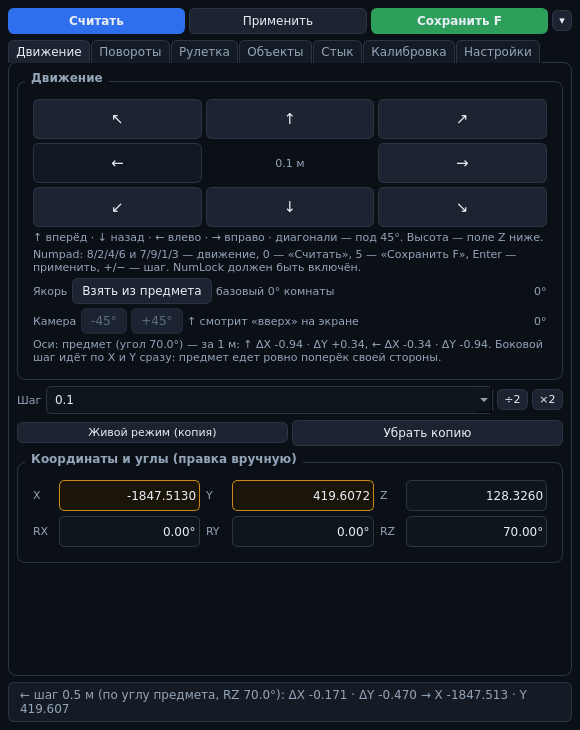
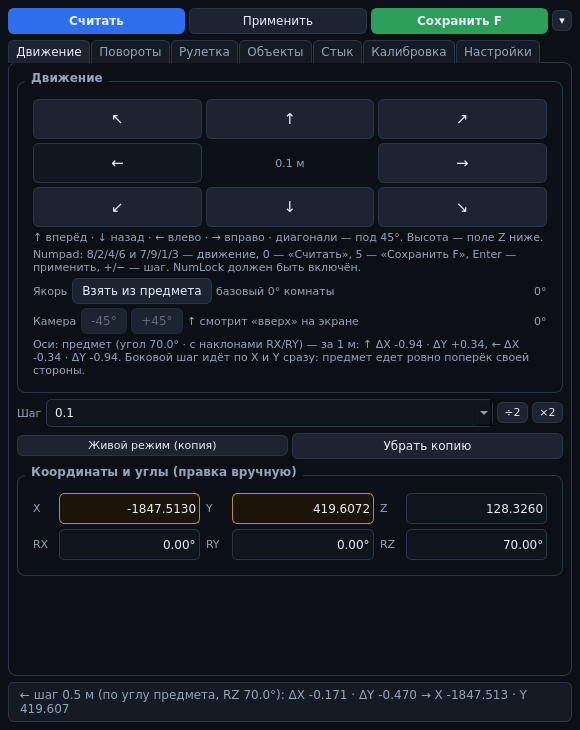
fix(move): сверка с первой версией 2.0 и памятка по ошибкам
Эталон — коммит d2db3d0 (LSP Mapper Overlay 2.0), а не старая mapper_assist.
Там шаг считался по осям предмета матрицей Rz·Ry·Rx с учётом наклонов RX/RY.
В 2.12.0 наклоны были отключены — на наклонённой детали шаг уходил не туда;
теперь use_tilt снова True, умолчание — режим «Предмет».

- tests/first_release_steps.json: 720 шагов, снятых прогоном move() из d2db3d0
- tests/test_first_release_parity.py: сверка текущего расчёта до 1e-12
- docs/LESSONS.md: памятка (эталон, правила умолчаний, ошибки среды, чек-лист
  выпуска), ссылки из CONTRIBUTING и README
- docs/adr/0009: дополнение 2.13.0 с уточнением эталона
- 1123 теста, покрытие 88 %

Changed region(s): [[0.031, 0.4521, 0.9931, 0.7534], [0.0621, 0.7233, 0.0931, 0.7534]]

diff --git a/tests/test_first_release_parity.py b/tests/test_first_release_parity.py
@@ -1,0 +1,59 @@
+"""Сверка с первой версией 2.0 (коммит ``d2db3d0``): шаг должен совпадать до знака.
+
+Эталон снят прогоном ``lsp_overlay.domain.movement.move`` из той версии и лежит в
+``tests/first_release_steps.json``. Тест держит умолчания приложения на месте: любое
+изменение осей, наклонов или формулы сдвига сразу его ломает.
+"""
+
+from __future__ import annotations
+
+import json
+from pathlib import Path
+
+import pytest
+from lsp_overlay.config import Settings
+from lsp_overlay.domain.directions import DiagonalMode, Direction
+from lsp_overlay.domain.movement import move
+from lsp_overlay.domain.pose import Pose
+
+GOLDEN = Path(__file__).with_name("first_release_steps.json")
+START = Pose(x=10.0, y=-20.0, z=5.0)
+
+
+def load_rows() -> list[dict[str, float | str]]:
+    """Эталонные шаги первой версии."""
+    return json.loads(GOLDEN.read_text(encoding="utf-8"))
+
+
+def test_golden_table_is_complete() -> None:
+    rows = load_rows()
+    assert len(rows) == len(Direction) * 12 * 3 * 2
+
+
+@pytest.mark.parametrize(
+    "row",
+    load_rows(),
+    ids=lambda row: f"{row['direction']}-{row['rz']}-{row['step']}-{row['mode']}",
+)
+def test_step_matches_the_first_release(row: dict[str, float | str]) -> None:
+    """Шаг по умолчанию повторяет первую версию до последнего знака."""
+    settings = Settings()
+    pose = Pose(
+        x=START.x,
+        y=START.y,
+        z=START.z,
+        rx=float(row["rx"]),
+        ry=float(row["ry"]),
+        rz=float(row["rz"]),
+    )
+    result = move(
+        pose,
+        Direction(str(row["direction"])),
+        float(row["step"]),
+        diagonal_mode=DiagonalMode(str(row["mode"])),
+        use_tilt=settings.use_tilt,
+        frame=settings.move_frame,
+    )
+    assert (result.x - pose.x, result.y - pose.y, result.z - pose.z) == pytest.approx(
+        (row["dx"], row["dy"], row["dz"]), abs=1e-12
+    )

diff --git a/tests/test_ui.py b/tests/test_ui.py
@@ -279,7 +279,7 @@ def test_frame_hint_shows_the_numbers_for_a_sideways_step(tmp_path: Path, qt_app
     """Подсказка показывает, что шаг вбок задевает обе оси."""
     window, _panel = make_window(tmp_path, qt_app, pose=Pose(x=0.0, y=0.0, z=0.0, rz=70.0))
     text = window.movement_tab.frame_text()
-    assert "Оси: предмет (угол 70.0°)" in text
+    assert "Оси: предмет (угол 70.0° · с наклонами RX/RY)" in text
     assert "← ΔX -0.34 · ΔY -0.94" in text
     assert "по X и Y сразу" in text
 
@@ -319,9 +319,9 @@ def test_direction_fix_checkboxes_mirror_the_step(tmp_path: Path, qt_app: object
     assert panel.pose.y == pytest.approx(-1.0)
 
 
-def test_tilt_checkbox_is_off_like_the_first_version(tmp_path: Path, qt_app: object) -> None:
+def test_tilt_checkbox_is_on_like_the_first_release(tmp_path: Path, qt_app: object) -> None:
     window, _panel = make_window(tmp_path, qt_app)
-    assert window.settings_tab.chk_tilt.isChecked() is False
+    assert window.settings_tab.chk_tilt.isChecked() is True
 
 
 def test_camera_buttons_work_only_in_world_frame(tmp_path: Path, qt_app: object) -> None:

diff --git a/tests/test_movement.py b/tests/test_movement.py
@@ -48,9 +48,9 @@ def test_diagonal_same_step_mode_moves_step_on_each_axis() -> None:
     assert result.position == pytest.approx((2.0, 2.0, 0.0))
 
 
-def test_diagonal_does_not_touch_z_even_for_tilted_prop() -> None:
-    """По умолчанию, как в первой версии, наклоны RX/RY не участвуют: шаг остаётся на полу."""
-    result = move(Pose(rx=30.0, ry=20.0, rz=45.0), Direction.NORTH_EAST, 1.0)
+def test_diagonal_does_not_touch_z_for_flat_prop() -> None:
+    """Плоский проп: диагональ в плане, высота на месте даже при наклонах."""
+    result = move(Pose(rx=30.0, ry=20.0, rz=45.0), Direction.NORTH_EAST, 1.0, use_tilt=False)
     assert result.z == pytest.approx(0.0)
     tilted = move(Pose(rx=30.0, ry=20.0, rz=45.0), Direction.NORTH_EAST, 1.0, use_tilt=True)
     assert tilted.z != 0.0  # по плоскости наклонённой детали высота уже меняется

diff --git a/tests/test_config.py b/tests/test_config.py
@@ -55,8 +55,9 @@ def test_old_schema_world_value_is_migrated() -> None:
     assert Settings.from_dict(old).move_frame is MoveSpace.OBJECT
 
 
-def test_tilt_is_off_by_default_like_the_first_version() -> None:
-    assert Settings().use_tilt is False
+def test_tilt_is_on_by_default_like_the_first_release() -> None:
+    """В первой версии 2.0 (коммит d2db3d0) наклоны RX/RY учитывались."""
+    assert Settings().use_tilt is True
 
 
 def test_anchor_and_inverts_round_trip() -> None:

diff --git a/lsp_overlay/config.py b/lsp_overlay/config.py
@@ -115,7 +115,7 @@ class Settings:
     step: float = DEFAULT_STEP
     step_presets: tuple[float, ...] = DEFAULT_STEP_PRESETS
     diagonal_mode: DiagonalMode = DiagonalMode.SAME_DISTANCE
-    use_tilt: bool = False
+    use_tilt: bool = True
     move_frame: MoveSpace = DEFAULT_MOVE_SPACE
     move_rotation: float = 0.0
     anchor_rz: float = 0.0

diff --git a/lsp_overlay/__init__.py b/lsp_overlay/__init__.py
@@ -2,5 +2,5 @@
 
 from __future__ import annotations
 
-__version__ = "2.12.0"
+__version__ = "2.13.0"
 __all__ = ["__version__"]

diff --git a/docs/LESSONS.md b/docs/LESSONS.md
@@ -1,0 +1,57 @@
+# Памятка: ошибки и их решения
+
+Живой документ. **Читать перед любой правкой движения, осей и записи координат** и
+дописывать сюда каждый повторяющийся промах — чтобы не проходить один и тот же круг заново.
+
+## Эталон: «первая версия» — это первый релиз 2.0
+
+| Что | Как понимать |
+| --- | --- |
+| **Первая версия** | Коммит `d2db3d0` — «feat!: LSP Mapper Overlay 2.0 — приложение переписано с нуля». Всё, что было до него (старая `mapper_assist`, коммиты `4c524c3` и раньше), **не считается**: хранилище обнуляли. |
+| Как проверить | `git show d2db3d0:lsp_overlay/domain/movement.py` |
+| Что там было | Один режим — по осям предмета: `R = Rz·Ry·Rx`, наклоны `RX`/`RY` **учитываются** (`use_tilt = True`), `Z` меняется только диагональю по плоскости детали. |
+| Чем это закреплено | `tests/first_release_steps.json` (720 эталонных шагов, сняты прогоном `move()` из `d2db3d0`) + `tests/test_first_release_parity.py`. Любое расхождение — регресс. |
+
+Если поведение движения расходится с этим эталоном — прав не пользователь, а этот файл.
+Если кажется, что виновата математика, сначала прогоните
+`pytest tests/test_first_release_parity.py` — она сверяет 720 комбинаций.
+
+## Правила, которые уже спасли бы время
+
+1. **Не менять умолчания без теста на умолчания.** Оси движения переделывались четыре раза
+   (2.9.0 «мир», 2.10.0 поправка камеры, 2.11.0 «предмет», 2.12.0 «только RZ»), потому что
+   менялось умолчание, а теста «умолчание = первая версия» не было. Теперь есть:
+   `Settings().move_frame is MoveSpace.OBJECT` и `Settings().use_tilt is True`.
+2. **Сначала сверка, потом гипотеза.** Если пользователь говорит «сдвиг не туда», порядок
+   действий: (а) прогнать эталон, (б) посмотреть, что реально уходит в панель
+   (`_move_report`, `pending_fields`), (в) только потом трогать формулу. Фраза «ошибка в
+   расчёте шага» уже трижды была тупиком: расчёт совпадал, расходились оси/камера/наклоны.
+3. **Одна координата ≠ одна кнопка.** В осях предмета при `RZ = 70°` «влево» обязано менять
+   `X` и `Y` одновременно (`ΔX −0.342 · ΔY −0.940` на метр) — это норма, а не диагональ.
+   Диагональ — это когда направление не совпадает с осью детали.
+4. **Наклоны `RX`/`RY` — часть первой версии.** Выключать их «для простоты» нельзя: на
+   наклонённой детали шаг поедет иначе, чем в первой версии. Выключаются только галочкой.
+5. **Режимы — добавка, не умолчание.** «Мир», «Якорь», поправка на камеру и поправки
+   направлений живут рядом, но по умолчанию работает режим первой версии.
+
+## Ошибки среды и тестов
+
+| Симптом | Причина и лечение |
+| --- | --- |
+| `ImportError: libGL.so.1` | Нет Qt-библиотек: `bash /tmp/make_stubs.sh .venv` и запуск с `LD_PRELOAD=/tmp/glstub/libglstub.so LD_LIBRARY_PATH=/tmp/glstub`, для окна — `QT_QPA_PLATFORM=offscreen`. |
+| `malloc_consolidate(): unaligned fastbin chunk` | Шум стабов Qt, а не ошибка приложения. Тесты при этом проходят. |
+| `Pose(...)` с частью полей | Молча даёт нули: все `x/y/z/rx/ry/rz` задавать явно. |
+| `QComboBox.currentIndexChanged` срабатывает раньше словарей | Подключать сигнал только после наполнения списка и подписей. |
+| `place_join(refresh=True)` подменял базу стыка | Перечитывание панели перед стыком выключено (`refresh=False`). |
+| Тест статуса читает готовый текст после `action_apply` | Читать `lbl_status` **до** применения, иначе текст уже заменён. |
+| Четыре старых теста ждали оси предмета | Они помечены явным `frame=MoveSpace.OBJECT`; не возвращать им другие оси. |
+| `ruff` ругается на длинные строки/порядок импортов | `ruff format` + `ruff check --fix`. |
+
+## Выпуск версии: чек-лист
+
+1. `ruff format --check .`, `ruff check .`, `mypy lsp_overlay`, `pytest --cov` (≥ 80 %).
+2. `pytest tests/test_first_release_parity.py` — эталон первой версии.
+3. Собрать zip, распаковать в чистую папку, прогнать тесты и `main.py --debug`,
+   проверить `logs/session_ready.txt` = `<версия> <python>`.
+4. Обновить `CHANGELOG.md`, `README.md`, ADR и этот файл; версию — в `pyproject.toml` и
+   `lsp_overlay/__init__.py`.

diff --git a/README.md b/README.md
@@ -10,13 +10,15 @@
 
 - **Считывает шесть полей панели** — `X`, `Y`, `Z` и `RX`, `RY`, `RZ` — через
   `Ctrl+A` → `Ctrl+C` и разбирает числа из буфера обмена.
-- **Двигает проп в 8 направлениях ровно так же, как первая версия.** Шаг поворачивается на
-  угол предмета `RZ` и идёт строго параллельно полу (`Z` не трогается), поэтому при
+- **Двигает проп в 8 направлениях ровно так же, как первая версия 2.0** (коммит
+  `d2db3d0`): шаг считается по осям предмета полной матрицей `R = Rz·Ry·Rx`, поэтому при
   `RZ = 70°` нажатие «влево» меняет **и `X`, и `Y`** (`ΔX −0.342 · ΔY −0.940` на метр) —
   предмет едет ровно поперёк своей стороны. `↑` — вдоль длины, `↓` — назад, плюс четыре
   диагонали под 45°. Кнопок высоты нет — `Z` задаётся вручную в поле координат.
-- **Наклоны `RX`/`RY` по умолчанию не участвуют** — как в v1. Галочка «Учитывать наклоны»
-  в «Настройках» включает движение по плоскости наклонённой детали, если это нужно.
+- **Эталон закреплён тестом:** 720 шагов из первой версии (`tests/first_release_steps.json`)
+  сверяются с текущим расчётом до `1e-12` (`tests/test_first_release_parity.py`).
+- **Наклоны `RX`/`RY` учитываются**, как в первой версии; галочка «Учитывать наклоны» в
+  «Настройках» позволяет двигать строго по полу, если деталь наклонена.
 - **Якорь комнаты** — базовый угол, по которому идут шаги независимо от поворота предмета:
   кнопка «Взять из предмета» под крестовиной запоминает текущий `RZ`. Пригодится, когда
   деталь поворачивают после того, как направление уже выбрано.
@@ -392,3 +394,9 @@ ruff check . && mypy lsp_overlay         # линтер и типы
 - `docs/adr/` — архитектурные решения (0004 — рулетка, 0005 — предметы, 0006 — живой режим,
   0007 — стык объектов, 0008 — толщина вместо высоты).
 - `docs/proposals/ghost-preview.md` — варианты «призрака» объекта (предложение, вариант не выбран).
+
+## Документация процесса
+
+- `docs/LESSONS.md` — памятка по ошибкам и их решениям: эталон движения (первая версия 2.0,
+  коммит `d2db3d0`), правила по умолчаниям, чек-лист выпуска.
+- `docs/adr/` — решения по архитектуре, стыку, габаритам и осям движения.

diff --git a/docs/adr/0009-osi-dvizheniya.md b/docs/adr/0009-osi-dvizheniya.md
@@ -115,3 +115,20 @@ dy = right·sin(RZ) + forward·cos(RZ)
   направлений»: зеркалит отдельные оси, если сборка сервера их переворачивает.
 - Схема настроек **4**: значения `prop` и `world` из 2.9–2.11 читаются как «по углу
   предмета» — это и есть поведение v1.
+
+## Дополнение 2.13.0: эталон — первый релиз 2.0, а не старая версия
+
+- **Уточнение.** «Первая версия» — это первый релиз переписанного приложения: коммит
+  `d2db3d0` («LSP Mapper Overlay 2.0»), а не старая `mapper_assist`. Поведение сдвига
+  берётся оттуда.
+- **Что было в `d2db3d0`:** один режим — по осям предмета, матрица `R = Rz·Ry·Rx`,
+  наклоны `RX`/`RY` участвуют (`use_tilt = True`), `Z` меняется только если деталь наклонена.
+- **Отсюда откат 2.12.0:** `use_tilt` снова `True` (как в первой версии), умолчание —
+  `MoveSpace.OBJECT`, дополнительные режимы (`ANCHOR`, `WORLD`), поправка на камеру и
+  поправки направлений остались доступными, но не включаются сами.
+- **Закреплено эталоном:** `tests/first_release_steps.json` — 720 шагов, снятых прогоном
+  `move()` из `d2db3d0` (8 направлений × 12 поз × 3 шага × 2 режима диагонали).
+  `tests/test_first_release_parity.py` сверяет текущий `move()` с этими числами до `1e-12`
+  и падает, если поменять оси, наклоны или формулу.
+- **Правило на будущее** (в `docs/LESSONS.md`): умолчания движения меняются только вместе с
+  тестом на умолчания, а расхождение с эталоном считается регрессом, а не поводом спорить.

diff --git a/CHANGELOG.md b/CHANGELOG.md
@@ -3,6 +3,26 @@
 Формат — [Keep a Changelog](https://keepachangelog.com/ru/1.1.0/),
 версии — [SemVer](https://semver.org/lang/ru/).
 
+## [2.13.0] — 2026-11-24
+
+### Исправлено
+
+- **Сдвиг сверен с первой версией 2.0 (коммит `d2db3d0`) и повторяет её один в один.**
+  В той версии шаг считался по осям предмета полной матрицей `R = Rz·Ry·Rx`: наклоны
+  `RX`/`RY` **участвовали**. В 2.12.0 они были отключены — на наклонённой детали шаг уходил
+  не туда. Теперь `use_tilt` снова включён, умолчание — «Предмет», как в первой версии.
+- **Эталон закреплён тестом.** `tests/first_release_steps.json` — 720 шагов, снятых
+  прогоном `move()` из `d2db3d0` (8 направлений × 12 поз × 3 шага × 2 режима диагонали);
+  `tests/test_first_release_parity.py` сверяет текущий расчёт до `1e-12`. Любая правка осей
+  или формулы теперь падает на этой сверке, а не через три версии.
+
+### Добавлено
+
+- **`docs/LESSONS.md` — памятка по ошибкам и их решениям.** В ней зафиксировано, что
+  считать эталоном (первая версия 2.0), какие умолчания нельзя менять без теста, как
+  отличить «одну координату» от «диагонали», ошибки среды Qt/тестов и чек-лист выпуска.
+  Ссылка — из `CONTRIBUTING.md` и `README.md`.
+
 ## [2.12.0] — 2026-11-24
 
 ### Исправлено

diff --git a/CONTRIBUTING.md b/CONTRIBUTING.md
@@ -3,6 +3,12 @@
 Документ фиксирует правила, которые проверяются автоматически. Если правило нельзя
 проверить линтером, тестом или CI — оно не работает.
 
+## Перед правкой
+
+Прочитайте `docs/LESSONS.md` — памятку по ошибкам и их решениям. Там зафиксировано, что
+считать эталонным поведением (первая версия 2.0, коммит `d2db3d0`), какие умолчания нельзя
+менять без теста и как проверять выпуск.
+
 ## Ветки и коммиты
 
 - Ветка — от актуального `main`, имя по смыслу: `feature/movement-diagonals`,
